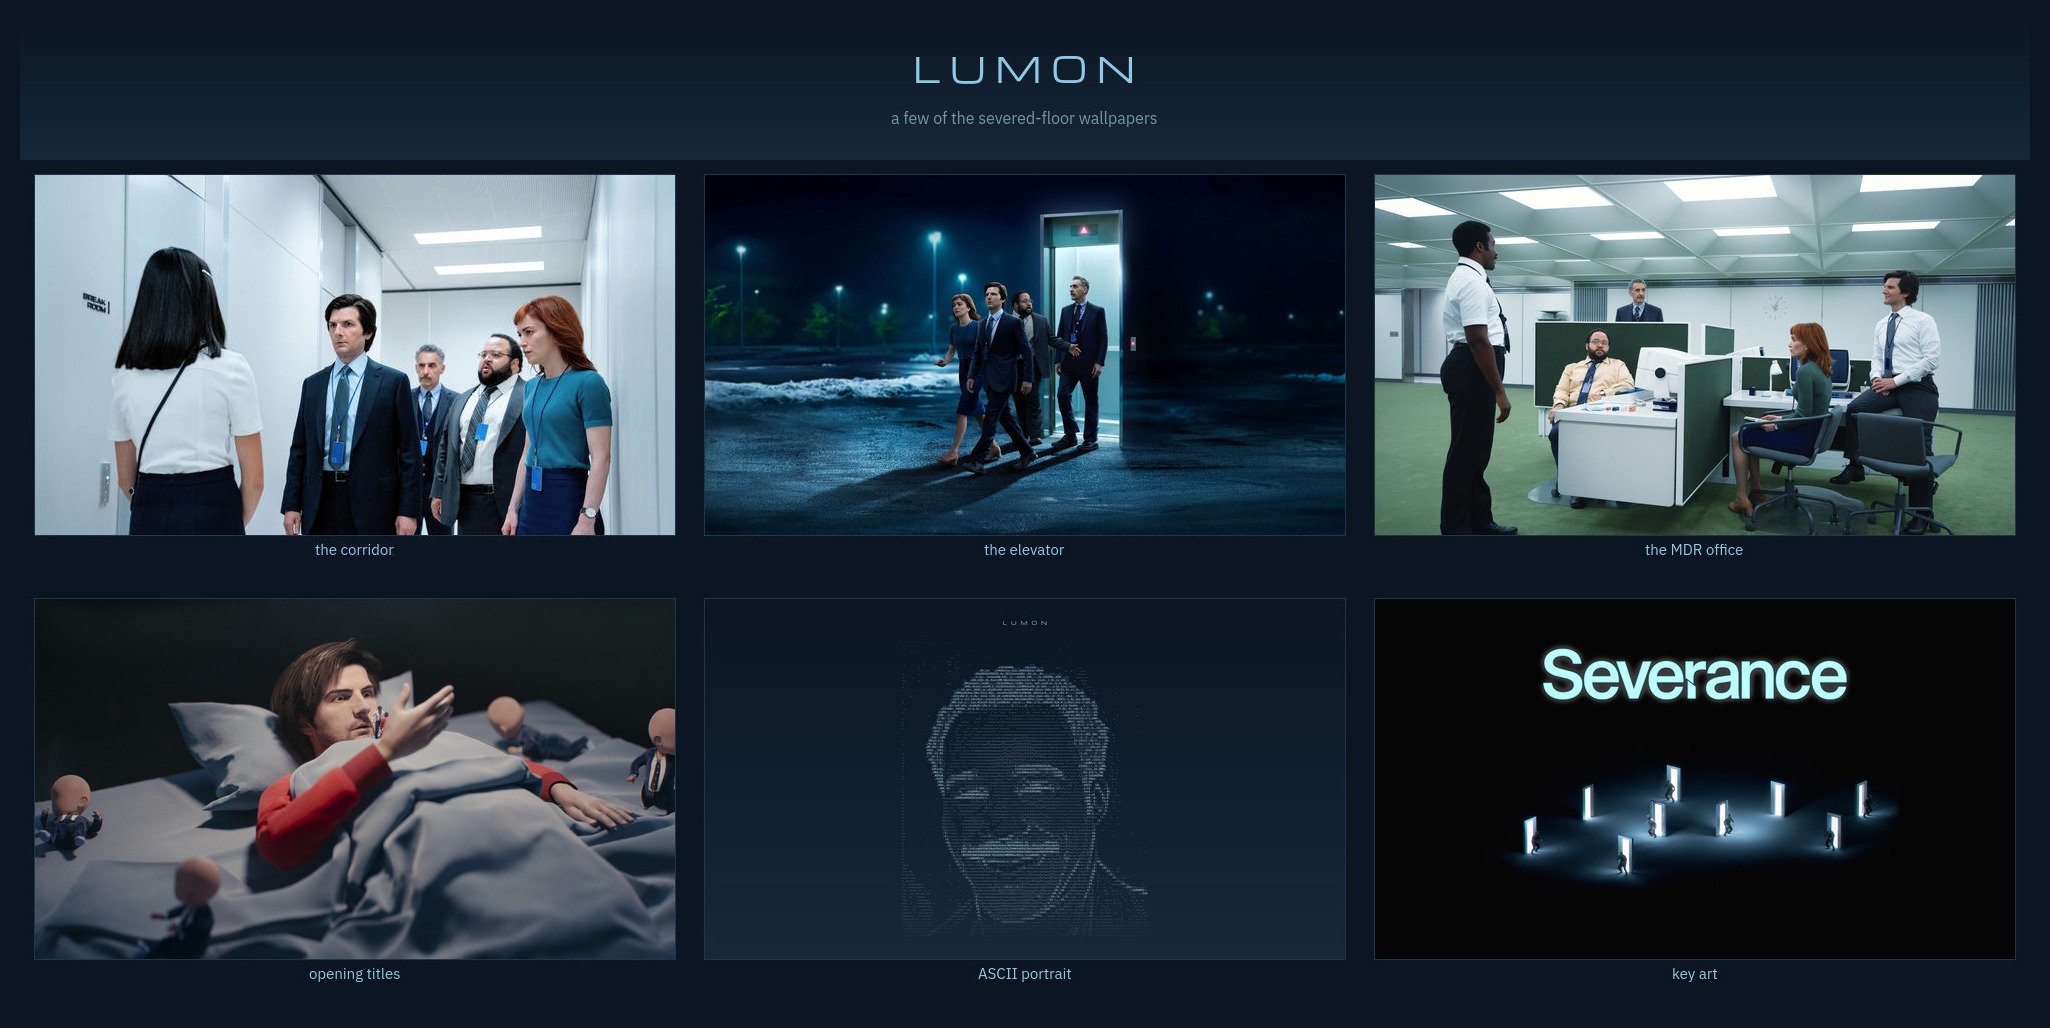
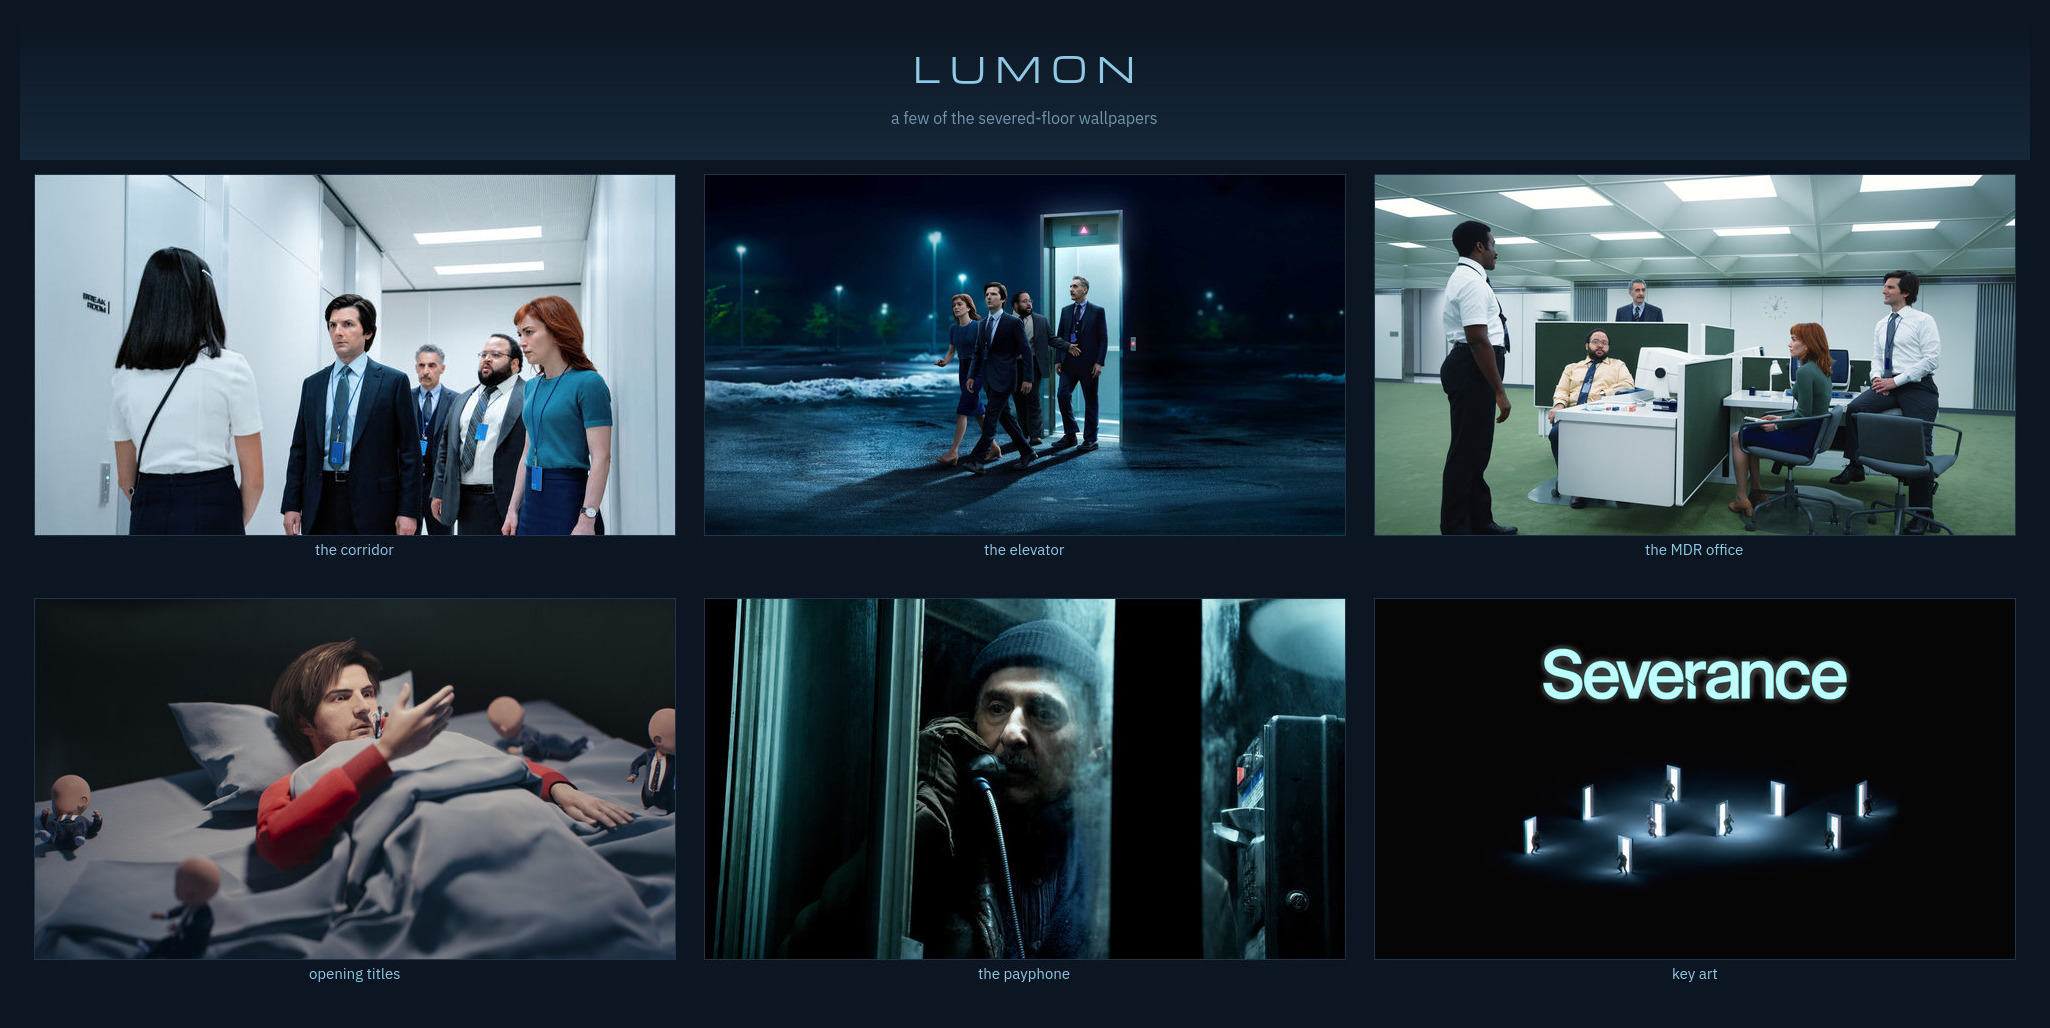
Remove last ASCII portrait wallpaper, update docs

Changed region(s): [[0.3434, 0.5603, 0.6556, 0.965]]

diff --git a/README.md b/README.md
@@ -17,7 +17,7 @@
 | [omarchy-lumon-boot](https://github.com/KaiCryan/omarchy-lumon-boot) | Plymouth boot splash — Lumon globe, matching LUKS prompt |
 | [omarchy-lumon-lock](https://github.com/KaiCryan/omarchy-lumon-lock) | lock screen — prompts *“Enter your access code”* |
 | [omarchy-lumon-greeting](https://github.com/KaiCryan/omarchy-lumon-greeting) | terminal greeting — 19 animations, then `fastfetch` |
-| **omarchy-lumon-wallpapers** | ASCII crew portraits + 4K brand set, hourly cycler &nbsp;·&nbsp; ← you are here |
+| **omarchy-lumon-wallpapers** | real severed-floor stills, opening-titles frames + 4K brand set, hourly cycler &nbsp;·&nbsp; ← you are here |
 | [omarchy-lumon-screensaver](https://github.com/KaiCryan/omarchy-lumon-screensaver) | capped-fps `ttfx` effects + an ambient scene reel |
 | [omarchy-lumon-theme](https://github.com/KaiCryan/omarchy-lumon-theme) | colour scheme, Hyprland look’n’feel, `fastfetch` + about branding |
 | [omarchy-desktop-quote](https://github.com/KaiCryan/omarchy-desktop-quote) | a rotating quote placard over the wallpaper |
@@ -29,9 +29,9 @@
 <!-- lumon-media:start -->
 <div align="center">
 
-<img src="docs/wallpaper-showcase.jpg" alt="A grid of six wallpapers: the MDR corridor, the crew arriving at the elevator, the wide MDR office, a stop-motion opening-titles frame, Milchick as an ASCII line-art portrait, and the Severance key art" width="900">
+<img src="docs/wallpaper-showcase.jpg" alt="A grid of six wallpapers: the MDR corridor, the crew arriving at the elevator, the wide MDR office, a stop-motion opening-titles frame, the payphone still, and the Severance key art" width="900">
 
-<sub>A few of the wallpapers in the set — real severed-floor stills, an opening-titles frame, an ASCII portrait, and the key art. Full list in <a href="wallpapers/SOURCES.md"><code>wallpapers/SOURCES.md</code></a>.</sub>
+<sub>A few of the wallpapers in the set — real severed-floor stills, an opening-titles frame, and the key art. Full list in <a href="wallpapers/SOURCES.md"><code>wallpapers/SOURCES.md</code></a>.</sub>
 
 </div>
 <!-- lumon-media:end -->
@@ -39,8 +39,6 @@
 *Severance* / Lumon Industries wallpapers for [Omarchy](https://omarchy.org),
 plus an hourly cycler.
 
-- **`wallpapers/40`** — Milchick as an ASCII line portrait: "LUMON" up top, a
-  big centred glyph face. Nothing else.
 - **`wallpapers/13`** — clean vector-built Lumon brand wallpaper (glow), 4K.
 - **`wallpapers/15`** — official *Severance* key art.
 - **`wallpapers/20`–`27`** — real *Severance* stills of the severed floor:

diff --git a/wallpapers/SOURCES.md b/wallpapers/SOURCES.md
@@ -1,7 +1,6 @@
 # Wallpaper sources
 
-`13` is original vector work; `40` is built from a Wikimedia Commons headshot
-(see `characters/SOURCES.md`). Everything else below is real — actual frames
+`13` is original vector work. Everything else below is real — actual frames
 or official key art from *Severance* (Apple TV+). Used here for a personal,
 non-commercial desktop theme, not redistribution of the broadcast.
 
